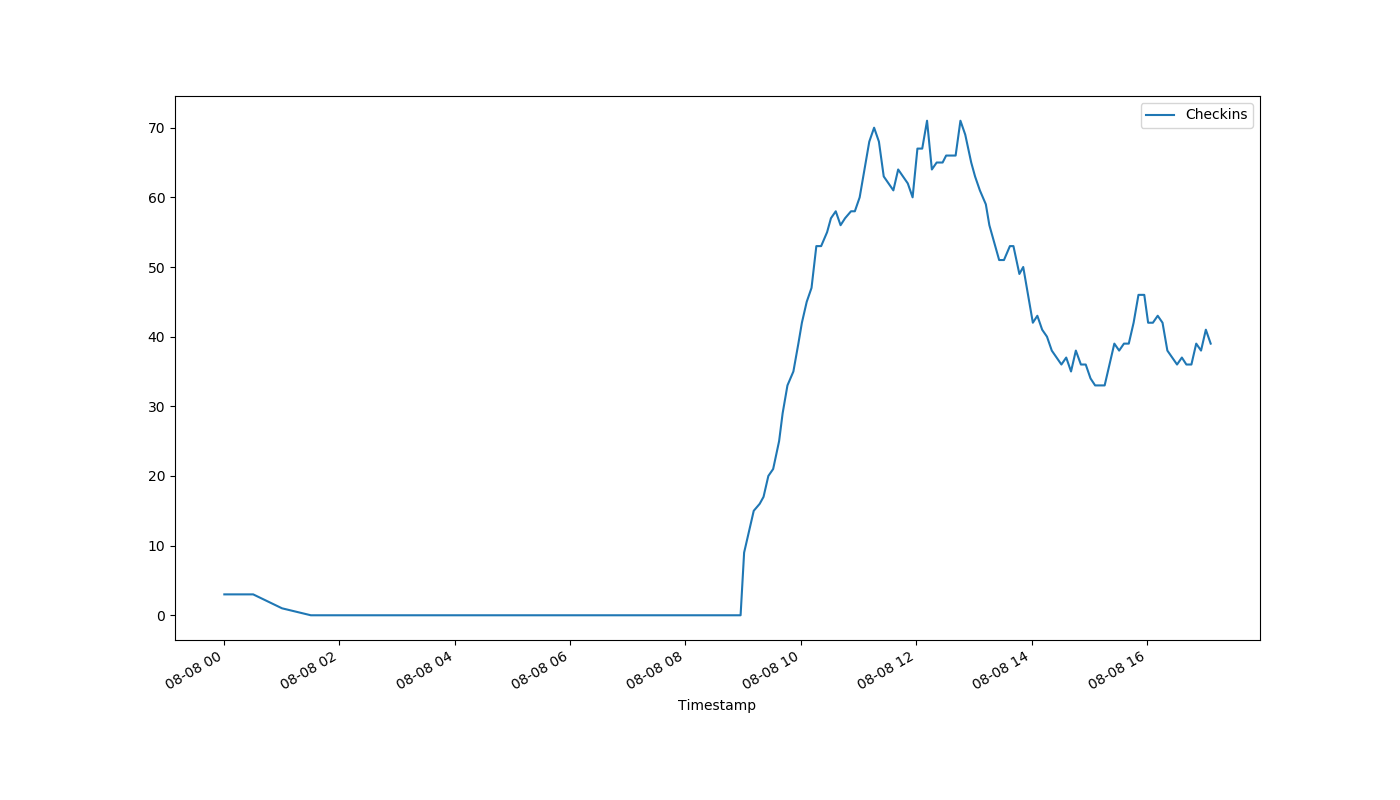
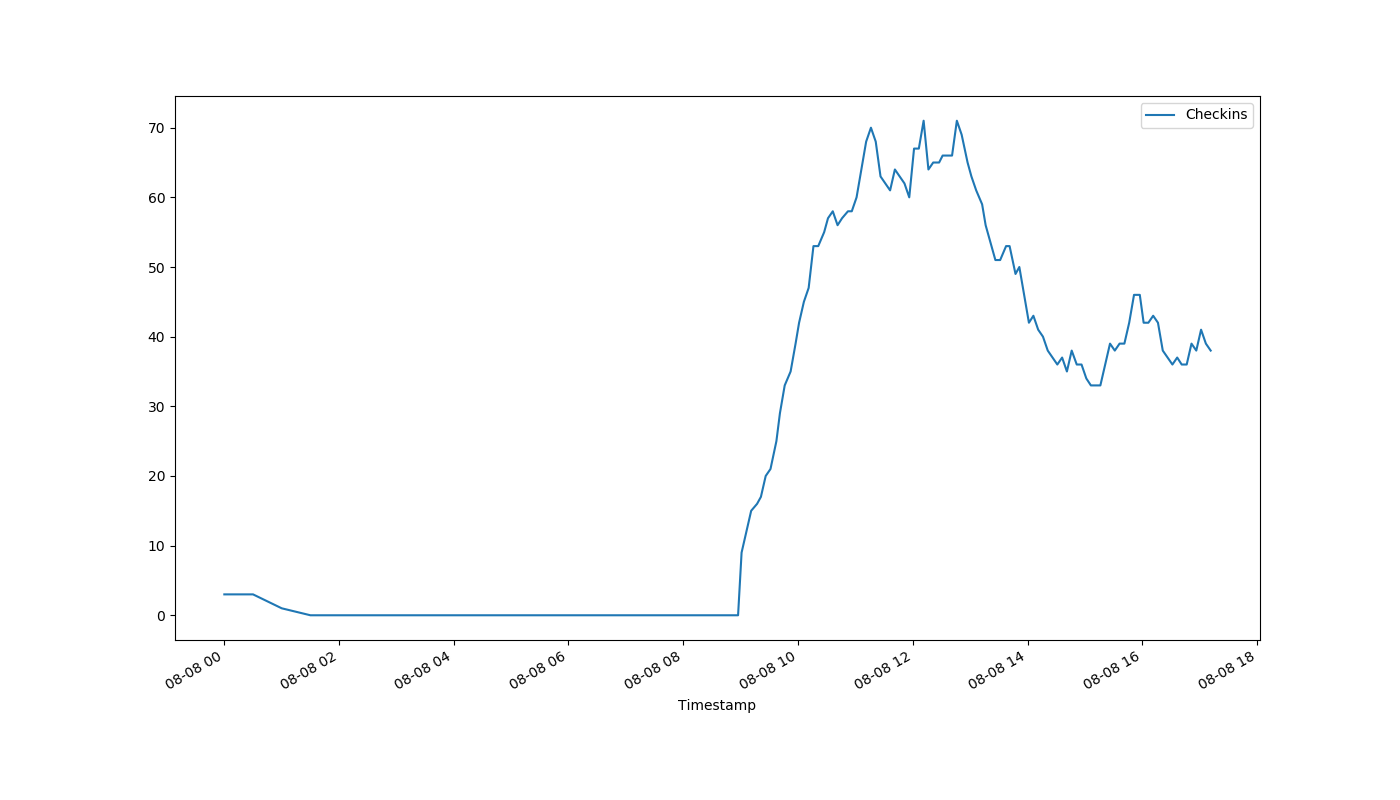
auto-Aug-08-17:13:00

diff --git a/index.html b/index.html
@@ -1,1 +1,1 @@
-<!DOCTYPE html><html><head><meta http-equiv="refresh" content="30"><link rel='stylesheet' href='holmcurrent.css'></head><body><p id='count'>39</p><div id='graph-wrap'><img id='graph' src='holmgraph-Aug-08.png'></div><p id='updated'>Last updated 17:07:02 / 17:06:17</p></body></html>
+<!DOCTYPE html><html><head><meta http-equiv="refresh" content="30"><link rel='stylesheet' href='holmcurrent.css'></head><body><p id='count'>38</p><div id='graph-wrap'><img id='graph' src='holmgraph-Aug-08.png'></div><p id='updated'>Last updated 17:12:02 / 17:11:18</p></body></html>
